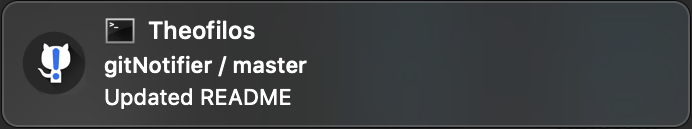
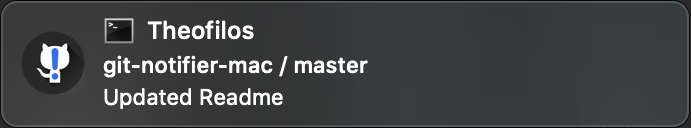
Updated Readme notification image

diff --git a/README.md b/README.md
@@ -4,11 +4,13 @@ A simple tool to keep track of changes in git repositories.
 
 <p align="center"> <img src="./icons/logo.png" width="128" height="128" /> </p>
 
-**git-notifier-mac** will notify you - using a system notification -, every time a new commit is made in your tracked git repositories.
+**git-notifier-mac** will notify you - using a system notification, every time a new commit is made in one of the git repositories it is tracking.
 
-The notification displays information about the commit which triggered it, including the author, branch and commit message.
+The notification displays useful information about the commit which triggered it, including the repository name and branch, as well as the author and  commit message.
 
 <p align="center"> <img src="./icons/git-notifier-notification.png" /> </p>
+
+Clicking on the notification brings up the corresponding remote's github page, using the default browser.
 
 **git-notifier-mac** uses JulienXX's [terminal notifier](https://github.com/julienXX/terminal-notifier) to trigger notifications on MacOs.
 
